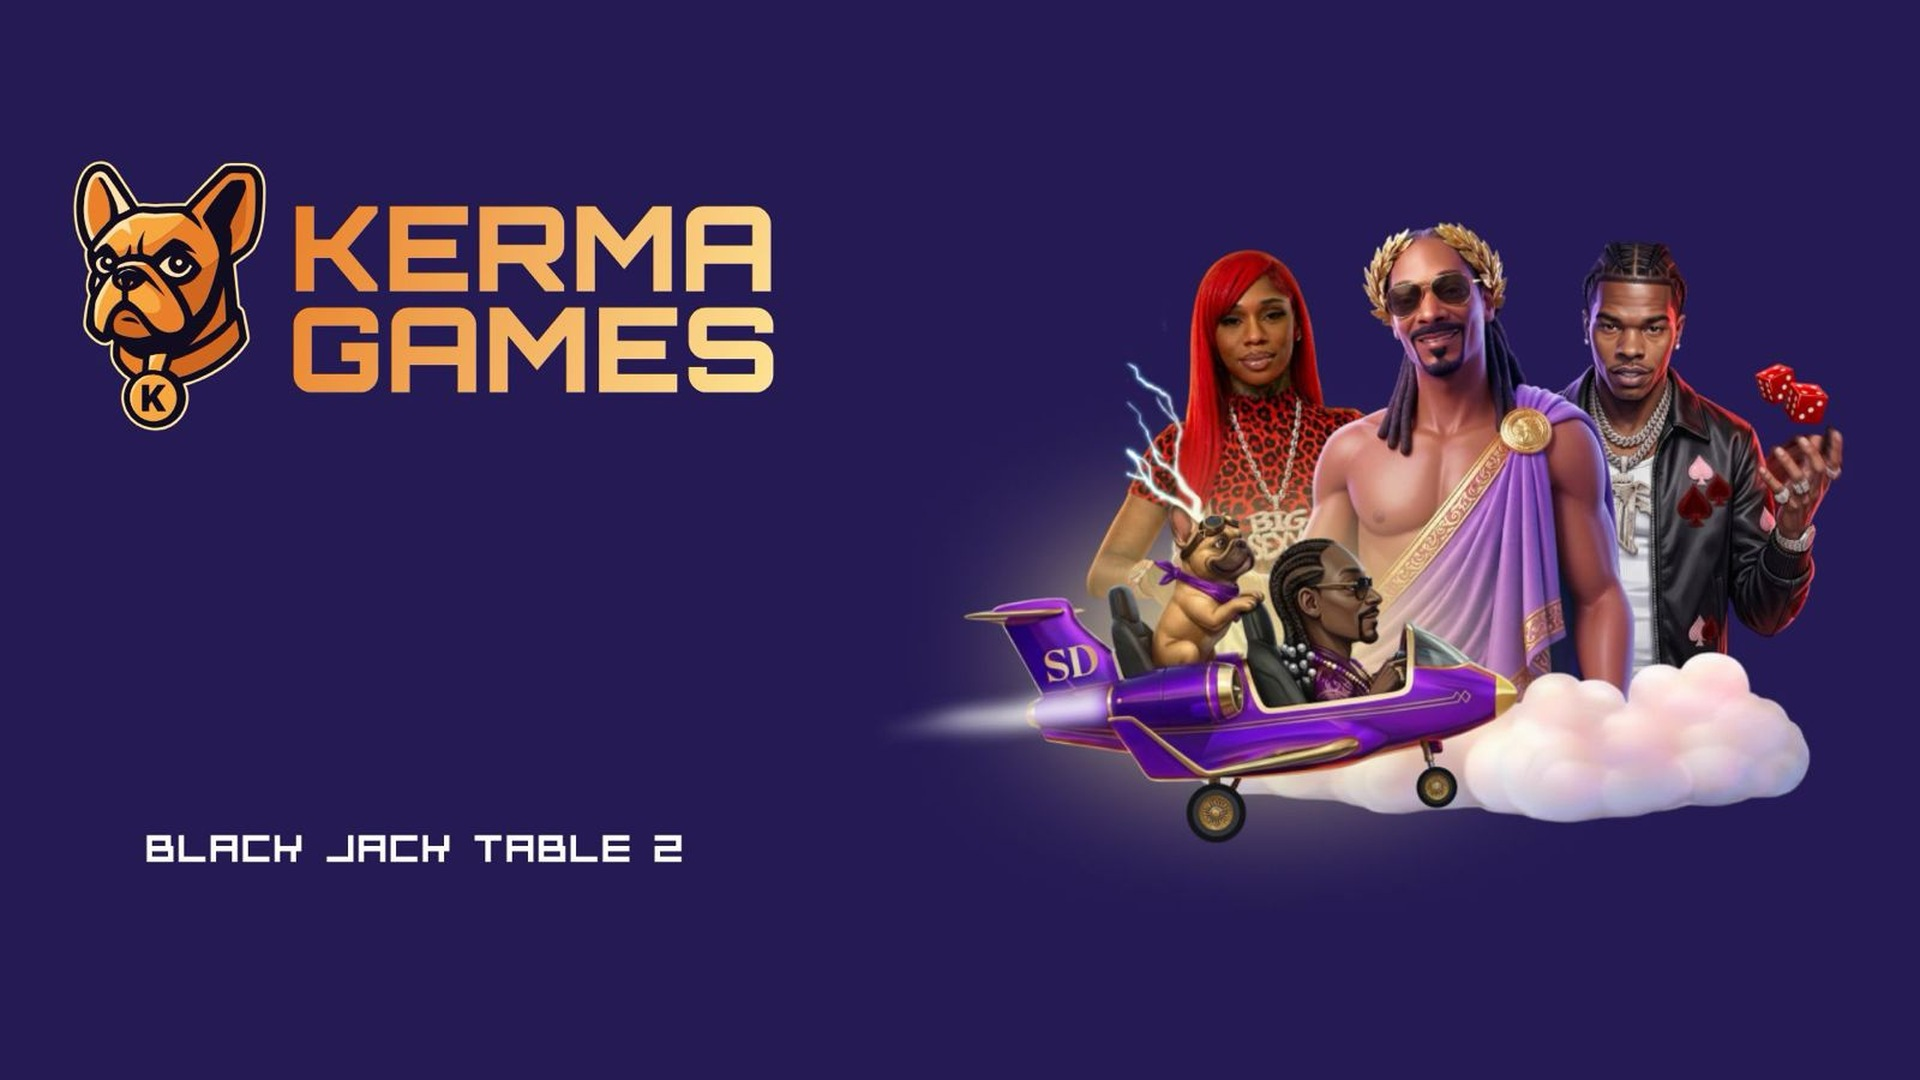
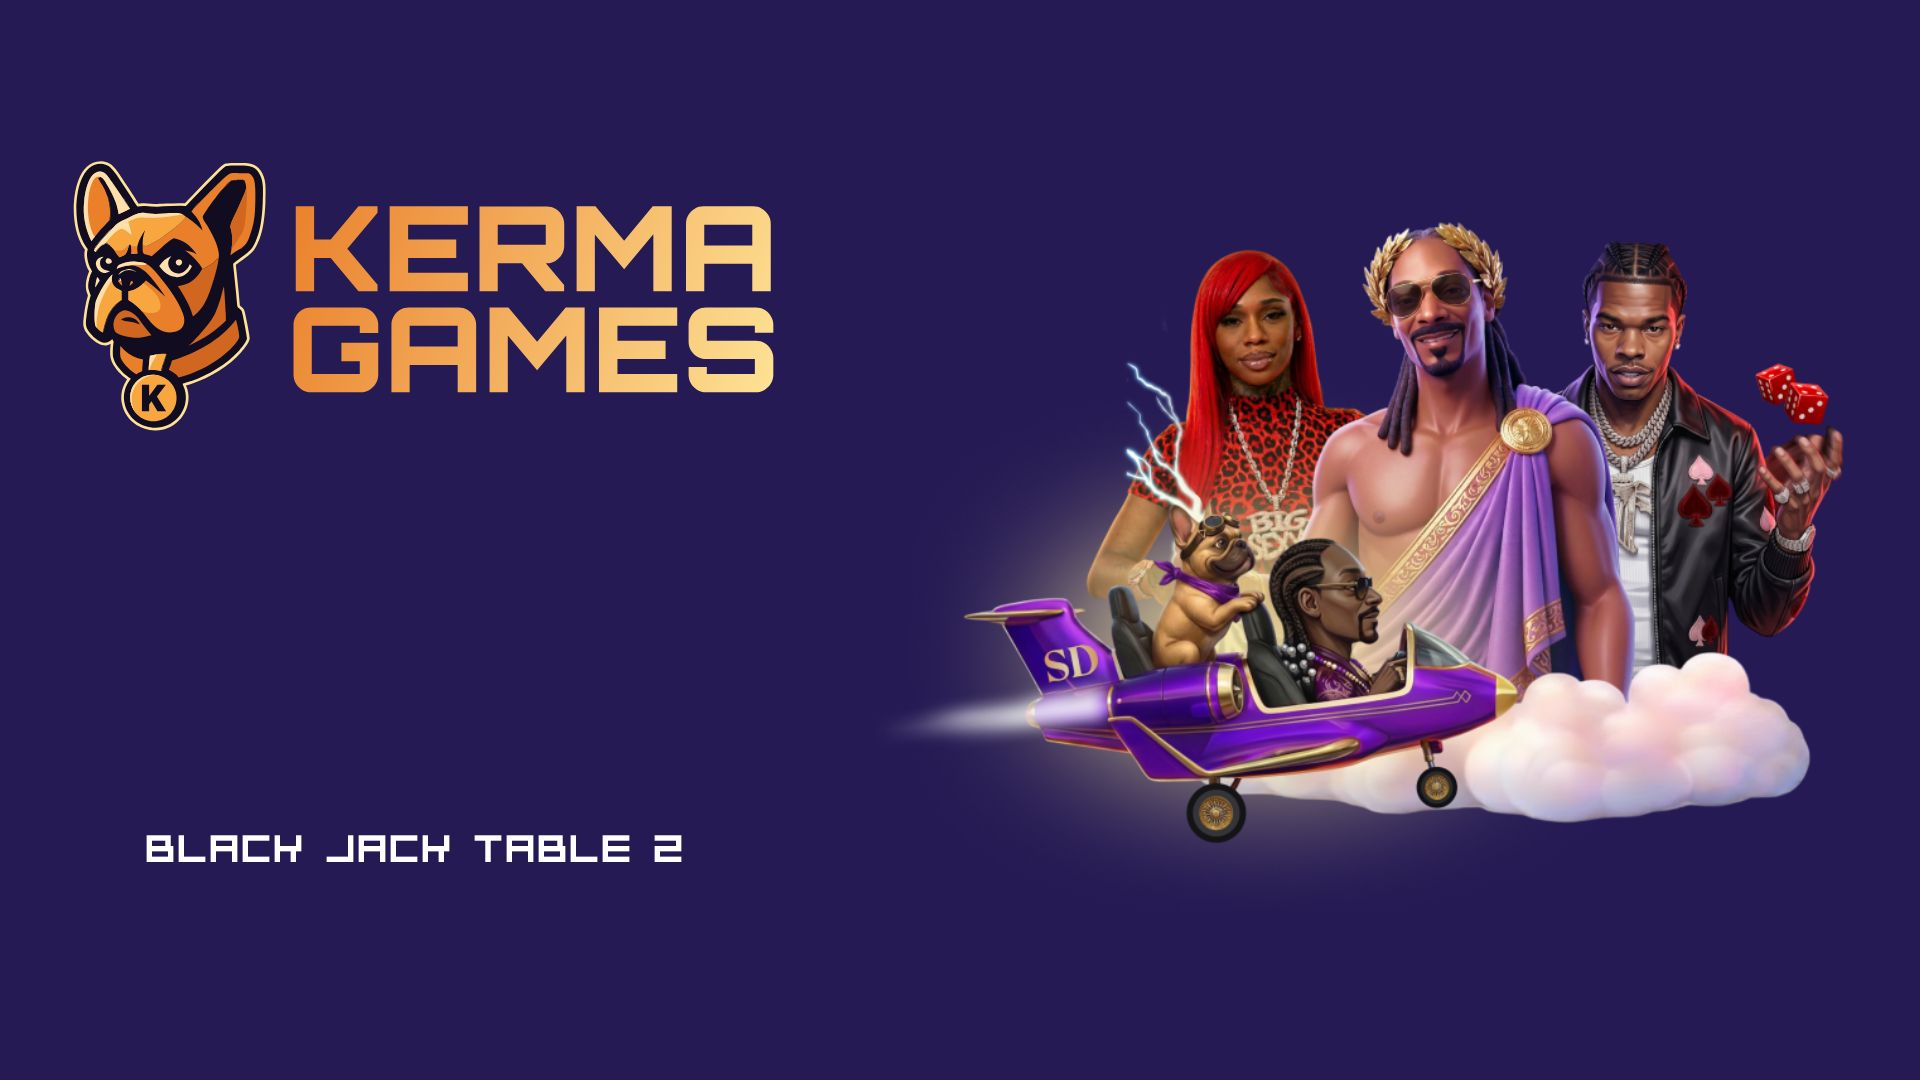
v5.0.2: fondos de pantalla a resolución completa

diff --git a/CHANGELOG.md b/CHANGELOG.md
@@ -2,6 +2,13 @@
 
 Todas las versiones de Kerma PC Setup, de la más reciente a la más antigua. El formato sigue [Keep a Changelog](https://keepachangelog.com/es-ES/1.1.0/) y la numeración sigue el [versionado semántico](https://semver.org/lang/es/).
 
+## [5.0.2] - 2026-10-08 - Fondos de pantalla a resolución completa
+
+### Cambiado
+- Plantillas de fondo de Blackjack 01 a 04, Blackjack Unlimited 01 y Roulette 01 sustituidas por los originales de 1920x1080. Las anteriores eran copias ampliadas desde 1600x900.
+- La plantilla sin texto, que usan Craps, supervisores, oficina y MCR, se ha rehecho a partir de los originales.
+- La línea con el nombre del equipo, la IP y la versión baja unos píxeles para no quedar pegada al nombre de dos líneas de Blackjack Unlimited.
+
 ## [5.0.1] - 2026-10-08 - Kerma RustDesk actualizado
 
 ### Cambiado
